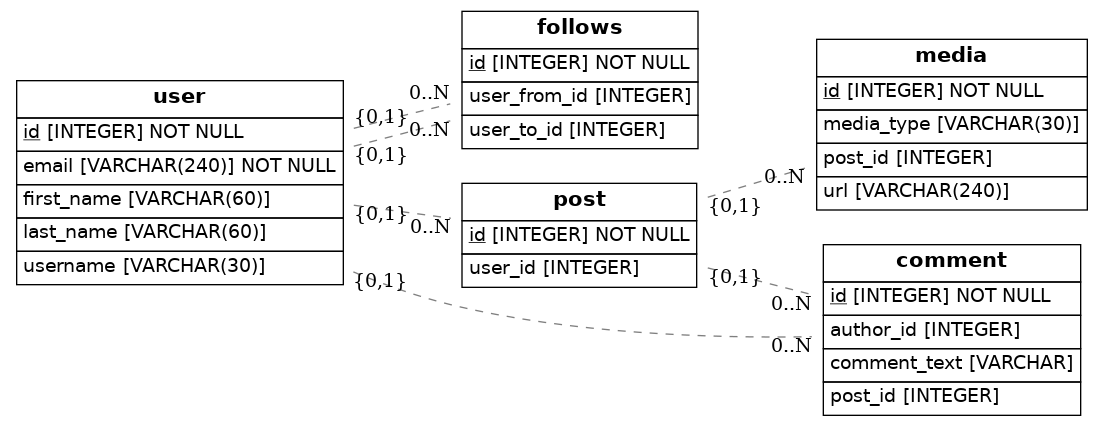
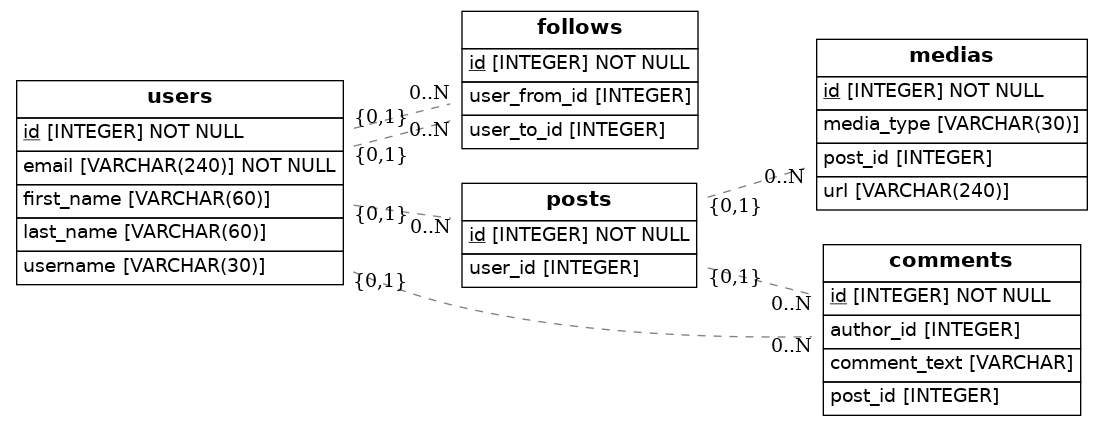
table names to plural

diff --git a/src/models.py b/src/models.py
@@ -9,42 +9,42 @@ from eralchemy2 import render_er
 Base = declarative_base()
 
 class User(Base):
-    __tablename__ = 'user'
+    __tablename__ = 'users'
     id = Column(Integer, primary_key=True)
     username = Column(String(30))
     first_name = Column(String(60))
     last_name = Column(String(60))
     email = Column(String(240), nullable=False)
-    follows = relationship('Follows', backref='user')
+    follows = relationship('Follow', backref='user')
     posts = relationship('Post', backref='user')
     comments = relationship('Comment', backref='user')
 
-class Follows(Base):
+class Follow(Base):
     __tablename__ = 'follows'
     id = Column(Integer, primary_key=True)
-    user_from_id = Column(Integer, ForeignKey('user.id'))
-    user_to_id = Column(Integer, ForeignKey('user.id'))
+    user_from_id = Column(Integer, ForeignKey('users.id'))
+    user_to_id = Column(Integer, ForeignKey('users.id'))
 
 class Post(Base):
-    __tablename__ = 'post'
+    __tablename__ = 'posts'
     id = Column(Integer, primary_key=True)
-    user_id = Column(Integer, ForeignKey('user.id'))
+    user_id = Column(Integer, ForeignKey('users.id'))
     comments = relationship('Comment', backref='post')
     medias = relationship('Media', backref='post')
 
 class Comment(Base):
-    __tablename__ = 'comment'
+    __tablename__ = 'comments'
     id = Column(Integer, primary_key=True)
     comment_text = Column(String())
-    author_id = Column(Integer, ForeignKey('user.id'))
-    post_id = Column(Integer, ForeignKey('post.id'))
+    author_id = Column(Integer, ForeignKey('users.id'))
+    post_id = Column(Integer, ForeignKey('posts.id'))
 
 class Media(Base):
-    __tablename__ = 'media'
+    __tablename__ = 'medias'
     id = Column(Integer, primary_key=True)
     media_type = Column(String(30))
     url = Column(String(240))
-    post_id = Column(Integer, ForeignKey('post.id'))
+    post_id = Column(Integer, ForeignKey('posts.id'))
 
 ## Draw from SQLAlchemy base
 try:
